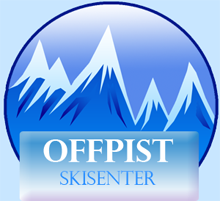
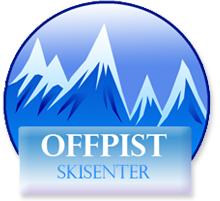
tegning i info. lagt til nye bilder i tillegg

diff --git a/Info.java b/Info.java
@@ -169,9 +169,29 @@ public class Info extends JFrame
 
 		// andre kolonne /////////////////////////////
 
-		panel = new JPanel();
+		panel = new JPanel()
+		{
+
+			@Override
+			protected void paintComponent(Graphics grphcs)
+			{
+				Graphics2D g2d = (Graphics2D) grphcs;
+				g2d.setRenderingHint(RenderingHints.KEY_ANTIALIASING, RenderingHints.VALUE_ANTIALIAS_ON);
+
+				Color color1 = new Color(245, 250, 255);
+				Color color2 = new Color(150, 195, 245);
+
+				GradientPaint gp = new GradientPaint(0,0, color1, 0, getHeight(), color2);
+				g2d.setPaint(gp);
+				g2d.fillRect(0, 0, getWidth(), getHeight());
+
+				super.paintComponents(grphcs);
+			}
+
+		};
+
+
 		c.fill = GridBagConstraints.BOTH;
-		panel.setBackground(new Color(200, 230, 255));
 		c.weightx = 1.0;
 		c.weighty = 0.1;
 		c.gridheight = 1 ;
@@ -229,10 +249,54 @@ public class Info extends JFrame
 
 
 
-		newsWindowPnl = new NewsWindowPanel();
-		infoWindowPnl = new InfoWindowPanel();
-		spOffersWindowPnl = new SpOfferWindowPanel();
-		pricesWindowPnl = new PricesWindowPanel();
+		newsWindowPnl = new NewsWindowPanel()
+		{
+   			protected void paintComponent(Graphics g)
+   		 	{
+        		g.setColor( getBackground() );
+        		g.fillRect(0, 0, getWidth(), getHeight());
+        		super.paintComponent(g);
+    		}
+		};
+		newsWindowPnl.setOpaque(false);
+		newsWindowPnl.setBackground( new Color(0, 0, 0, 0) );
+
+
+		infoWindowPnl = new InfoWindowPanel()
+		{
+   			protected void paintComponent(Graphics g)
+   		 	{
+        		g.setColor( getBackground() );
+        		g.fillRect(0, 0, getWidth(), getHeight());
+        		super.paintComponent(g);
+    		}
+		};
+		infoWindowPnl.setOpaque(false);
+		infoWindowPnl.setBackground( new Color(0, 0, 0, 0) );
+
+		spOffersWindowPnl = new SpOfferWindowPanel()
+		{
+   			protected void paintComponent(Graphics g)
+   		 	{
+        		g.setColor( getBackground() );
+        		g.fillRect(0, 0, getWidth(), getHeight());
+        		super.paintComponent(g);
+    		}
+		};
+		spOffersWindowPnl.setOpaque(false);
+		spOffersWindowPnl.setBackground( new Color(0, 0, 0, 0) );
+
+		pricesWindowPnl = new PricesWindowPanel()
+		{
+   			protected void paintComponent(Graphics g)
+   		 	{
+        		g.setColor( getBackground() );
+        		g.fillRect(0, 0, getWidth(), getHeight());
+        		super.paintComponent(g);
+    		}
+		};
+		pricesWindowPnl.setOpaque(false);
+		pricesWindowPnl.setBackground( new Color(0, 0, 0, 0) );
 
 
 		contentPanel.add(newsWindowPnl);
@@ -241,11 +305,6 @@ public class Info extends JFrame
 		contentPanel.add(pricesWindowPnl);
 
 
-		Border border = BorderFactory.createLineBorder(Color.GRAY);
-		newsWindowPnl.setBorder(border);
-		infoWindowPnl.setBorder(border);
-		spOffersWindowPnl.setBorder(border);
-		pricesWindowPnl.setBorder(border);
 
 
 		Border raisedBevel = BorderFactory.createRaisedBevelBorder();
